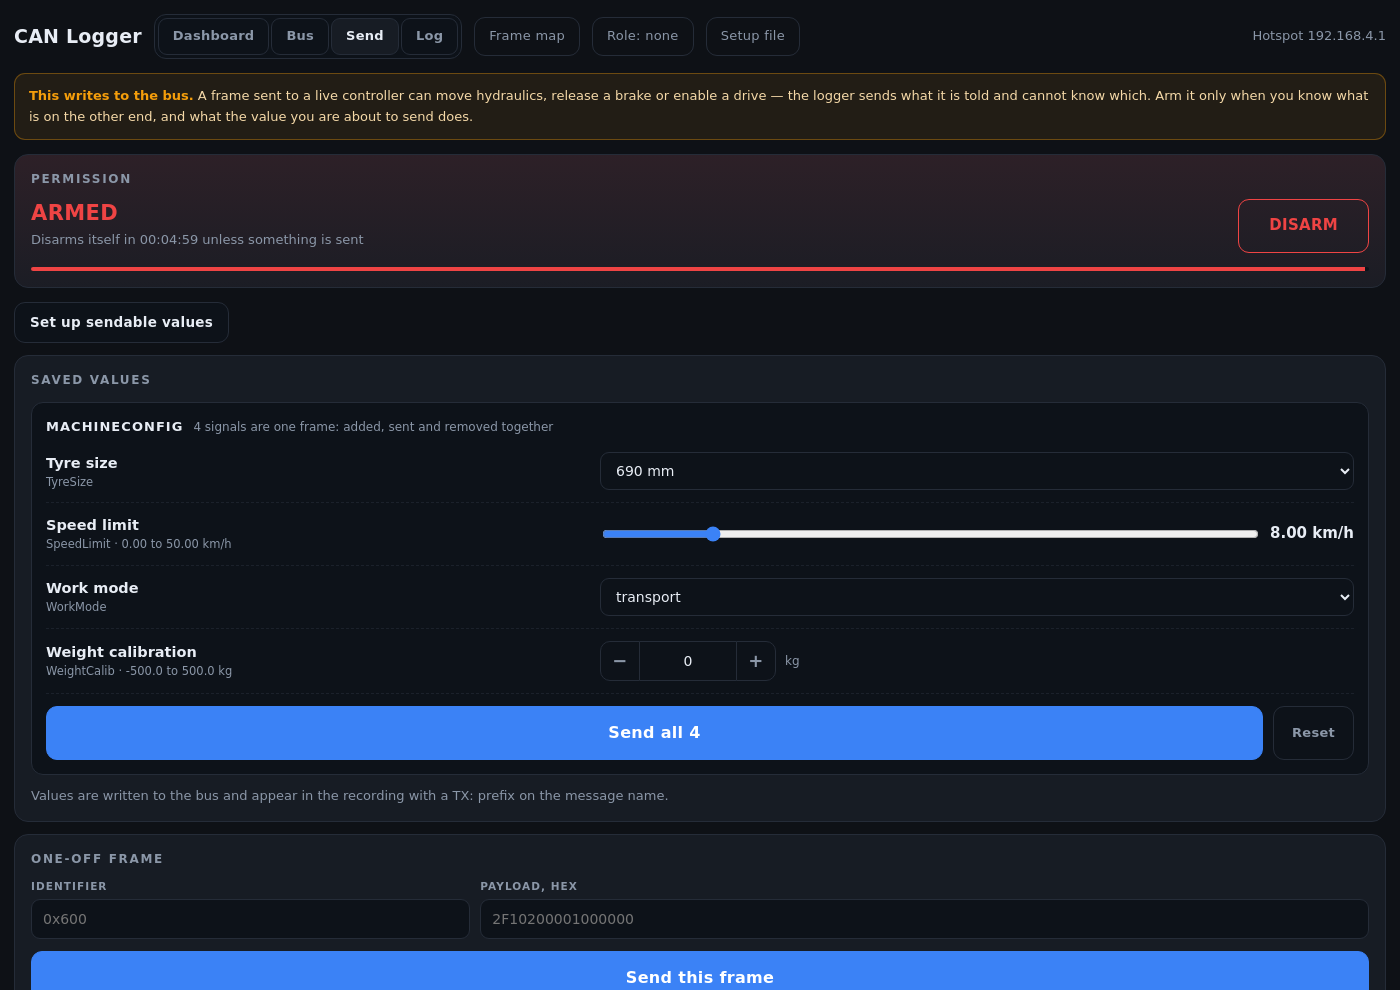
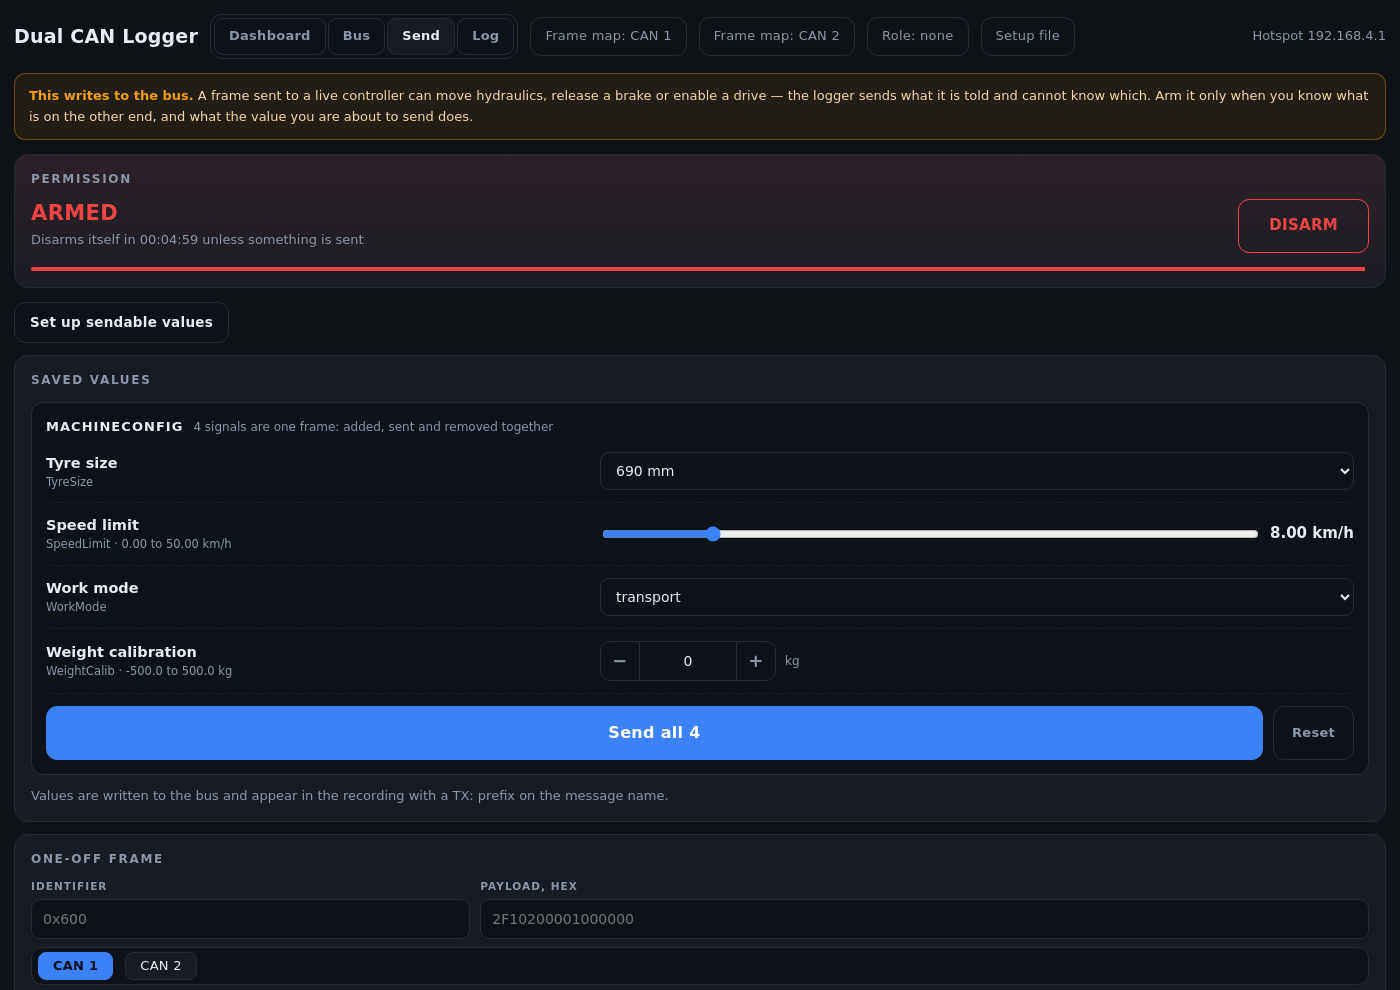
Give each bus its own Frame map button
The frame map upload used to be one header button that read the Bus tab's
selector: to load CAN2's map you had to first open a tab you may have had no
other reason to open, notice a selector, and change it. Nothing on the button
said that, so the honest report from the field was that CAN2's map could not
be uploaded at all.

Two buttons now, side by side in the header, each carrying its own bus. The
target is readable at the moment of the click - which matters more here than
for most buttons, because loading a map replaces that bus's map and drops
every dashboard cell the new one cannot account for.

The desk tool (customize.py / tools/preview_dashboard.py) holds one frame map,
the CAN1 one, and that is what its /api/signals reports. It now refuses a CAN2
upload and says so, rather than quietly replacing the CAN1 map and then
answering the next CAN2 request with nothing - a page that says "loaded" and
then shows an empty bus.

Screenshots and GIFs regenerated so the README shows the header that ships.

diff --git a/src/webpage.cpp b/src/webpage.cpp
@@ -471,7 +471,13 @@ static const char PAGE_2[] PROGMEM = R"HTML(
     <button data-tab="send">Send</button>
     <button data-tab="log">Log</button>
   </div>
-  <button id="dbcbtn"   class="hbtn">Frame map</button>
+  <!-- One button per bus, rather than one that follows whichever controller
+       some other tab happens to be showing. Uploading replaces THAT bus's
+       frame map and drops every dashboard cell the new map cannot account
+       for, so the target has to be readable at the moment of the click - not
+       inferred from the state of a tab the reader may not have opened. -->
+  <button class="hbtn dbcbtn" data-bus="1">Frame map: CAN 1</button>
+  <button class="hbtn dbcbtn" data-bus="2">Frame map: CAN 2</button>
   <button id="rolebtn"  class="hbtn">Role: none</button>
   <button id="setupbtn" class="hbtn">Setup file</button>
   <span id="conn">connecting...</span>
@@ -3847,15 +3853,21 @@ q('rolesheet').onclick  = function(e){
   if(e.target === q('rolesheet')) q('rolesheet').classList.remove('on');
 };
 
-/* The button carries its target. Uploading replaces one bus's frame map and
-   drops every dashboard cell that map cannot account for, so which bus it is
-   about has to be readable BEFORE the click, not explained in the toast
-   afterwards. It follows the Bus tab's selector. */
-function renderDbcBtn(){
-  q('dbcbtn').textContent = 'Frame map: CAN ' + BUS;
-}
+/* Each button carries its own target. Uploading replaces one bus's frame map
+   and drops every dashboard cell that map cannot account for, so which bus it
+   is about has to be readable BEFORE the click, not explained in the toast
+   afterwards - which is why there is a button per bus instead of one that
+   follows the Bus tab. The file picker is shared, so the bus that was pressed
+   is remembered here for the change handler that fires later. */
+var DBCTARGET = 1;
 
-q('dbcbtn').onclick = function(){ q('dbcpick').click(); };
+Array.prototype.forEach.call(document.querySelectorAll('.dbcbtn'),
+  function(b){
+    b.onclick = function(){
+      DBCTARGET = busOr(b.dataset.bus);
+      q('dbcpick').click();
+    };
+  });
 
 q('dbcpick').onchange = function(){
   var f = q('dbcpick').files[0];
@@ -3868,7 +3880,7 @@ q('dbcpick').onchange = function(){
   var fd = new FormData();
   fd.append('file', f, f.name);
 
-  var target = BUS;
+  var target = DBCTARGET;
   toast('Sending the frame map for CAN ' + target,
         f.name + ' — ' + Math.round(f.size / 1024) + ' KB', 'ok');
 
@@ -3953,7 +3965,6 @@ Array.prototype.forEach.call(q('buspick').querySelectorAll('.bussel'),
       BUS = n;
       Array.prototype.forEach.call(q('buspick').querySelectorAll('.bussel'),
         function(o){ o.classList.toggle('on', +o.dataset.bus === BUS); });
-      renderDbcBtn();
       q('sigs').innerHTML = '<tr><td colspan="4">loading...</td></tr>';
       q('ids').innerHTML  = '<tr><td colspan="5">loading...</td></tr>';
       pollStatus();
@@ -4077,7 +4088,6 @@ q('rebootbtn').onclick = function(){
 window.addEventListener('hashchange', function(){
   showTab(location.hash.slice(1));
 });
-renderDbcBtn();
 loadCfg().then(function(){ showTab(location.hash.slice(1) || 'dash'); });
 </script>
 </body></html>

diff --git a/customize.py b/customize.py
@@ -3,7 +3,7 @@
 Set the logger's dashboard and sendable values up at a desk, before going out.
 
     python3 customize.py                  open the page with no frame map, and
-                                          load one from it with Frame map
+                                          load one from it with Frame map: CAN 1
     python3 customize.py path/to/mine.dbc start with this frame map
     python3 customize.py --browse         pick one in your file browser first
     python3 customize.py mine.dbc --role Tester
@@ -16,8 +16,9 @@ Set the logger's dashboard and sendable values up at a desk, before going out.
 Or just double-click this file. On Windows you can also drag a .dbc onto it.
 
 It never asks a question in the terminal. With no argument it opens the page
-empty and the Frame map button loads a .dbc from wherever you keep it, which
-is the same button the logger itself has.
+empty and the Frame map: CAN 1 button loads a .dbc from wherever you keep it,
+which is the same button the logger itself has. This tool holds one map, so the
+CAN 2 button says so rather than loading over it.
 
 It opens the logger's real web page in your browser, fed with simulated data.
 Press Export in the page to save the setup you have built, then copy it onto

diff --git a/tools/preview_dashboard.py b/tools/preview_dashboard.py
@@ -732,6 +732,17 @@ def main():
 
             if p == "/api/dbc":
                 nonlocal dbc, flat, by_ref
+                # This tool holds ONE frame map, the CAN1 one, which is what
+                # /api/signals reports. Accepting a CAN2 upload would replace
+                # that map and then answer the next CAN2 request with nothing -
+                # the page would say it had loaded and show an empty bus. Say
+                # so instead; the logger itself takes both.
+                qs = urllib.parse.parse_qs(urllib.parse.urlparse(self.path).query)
+                if int((qs.get("bus") or ["1"])[0]) != 1:
+                    self._json({"ok": 0, "err": "this desk tool holds one frame "
+                                               "map, the CAN 1 one - the logger "
+                                               "takes both"})
+                    return
                 name, data = _multipart_file(raw,
                                              self.headers.get("Content-Type", ""))
                 if not data:

diff --git a/README.md b/README.md
@@ -249,8 +249,8 @@ given identical files.
 Copy [`examples/example.dbc`](examples/example.dbc) to the card as
 `/frames.dbc` and edit it, or export one from your usual CAN tool. The paths are
 `DBC_PATH` and `DBC2_PATH` in `src/config.h`. Either can be uploaded from the
-web app — the **Frame map** button names the bus it will replace before you
-press it.
+web app — there is a **Frame map: CAN 1** and a **Frame map: CAN 2** button in
+the header, so the one you press names the bus it will replace.
 
 > **The two maps share one heap budget.** They are sized to the free heap in
 > order, CAN1 first, so a very large map on CAN1 is the one that shrinks CAN2's.
@@ -707,8 +707,9 @@ needle sits where it is going to sit.
 
 ### Loading a frame map
 
-**Frame map**, in the header, takes a `.dbc` off the phone or laptop you are
-holding and puts it on the card as `/frames.dbc`. The map is rebuilt on the spot
+**Frame map: CAN 1** and **Frame map: CAN 2**, in the header, each take a
+`.dbc` off the phone or laptop you are holding and put it on the card as
+`/frames.dbc` or `/frames2.dbc`. The map is rebuilt on the spot
 — no reboot, no card reader, no laptop cable — and the dashboard re-binds to it
 immediately, saying how many saved cells no longer match if any do not.
 
@@ -895,9 +896,10 @@ python3 customize.py path/to/mine.dbc --role Tester    # if one of them is you
 ```
 
 **It never asks a question in the terminal.** With no argument the page opens
-empty and its own **Frame map** button loads a `.dbc` from wherever you keep it
-— the same button the logger itself has, so there is one way to do this rather
-than two.
+empty and its own **Frame map: CAN 1** button loads a `.dbc` from wherever you
+keep it — the same button the logger itself has, so there is one way to do this
+rather than two. This tool holds one map, so the CAN 2 button says so rather
+than loading over it.
 
 or **double-click `customize.py`** and pick your file — from the list it finds,
 or press **b** to open your computer's own file browser. On Windows,
@@ -923,7 +925,7 @@ asked for.
 Then, in the page:
 
 **1. Load your frame map** if you did not name one on the command line —
-*Frame map*, in the header.
+*Frame map: CAN 1*, in the header.
 
 **2. Say which node you are** — or skip. *Role*, in the header. See [which node
 this logger is](#which-node-this-logger-is); `--role` above answers it before

diff --git a/CHANGELOG.md b/CHANGELOG.md
@@ -130,9 +130,10 @@ breaks the floor down by bus.
   resolves against that bus's map. The cell editor has a bus picker above the
   signal list — changing it clears the signal, because a reference from the
   other map would produce a cell that looks configured and never updates.
-- **Frame map upload**: the header button reads `Frame map: CAN 1` and follows
-  the Bus tab's selector, so the target is readable *before* the click rather
-  than explained in the toast afterwards.
+- **Frame map upload**: two header buttons, `Frame map: CAN 1` and
+  `Frame map: CAN 2`, so the target is readable *before* the click rather than
+  explained in the toast afterwards — and reachable without first working out
+  which bus some other tab happens to be showing.
 - **Send**: setpoints carry a bus, frames are grouped by bus as well as message,
   and the one-off frame box has its own selector.
 
